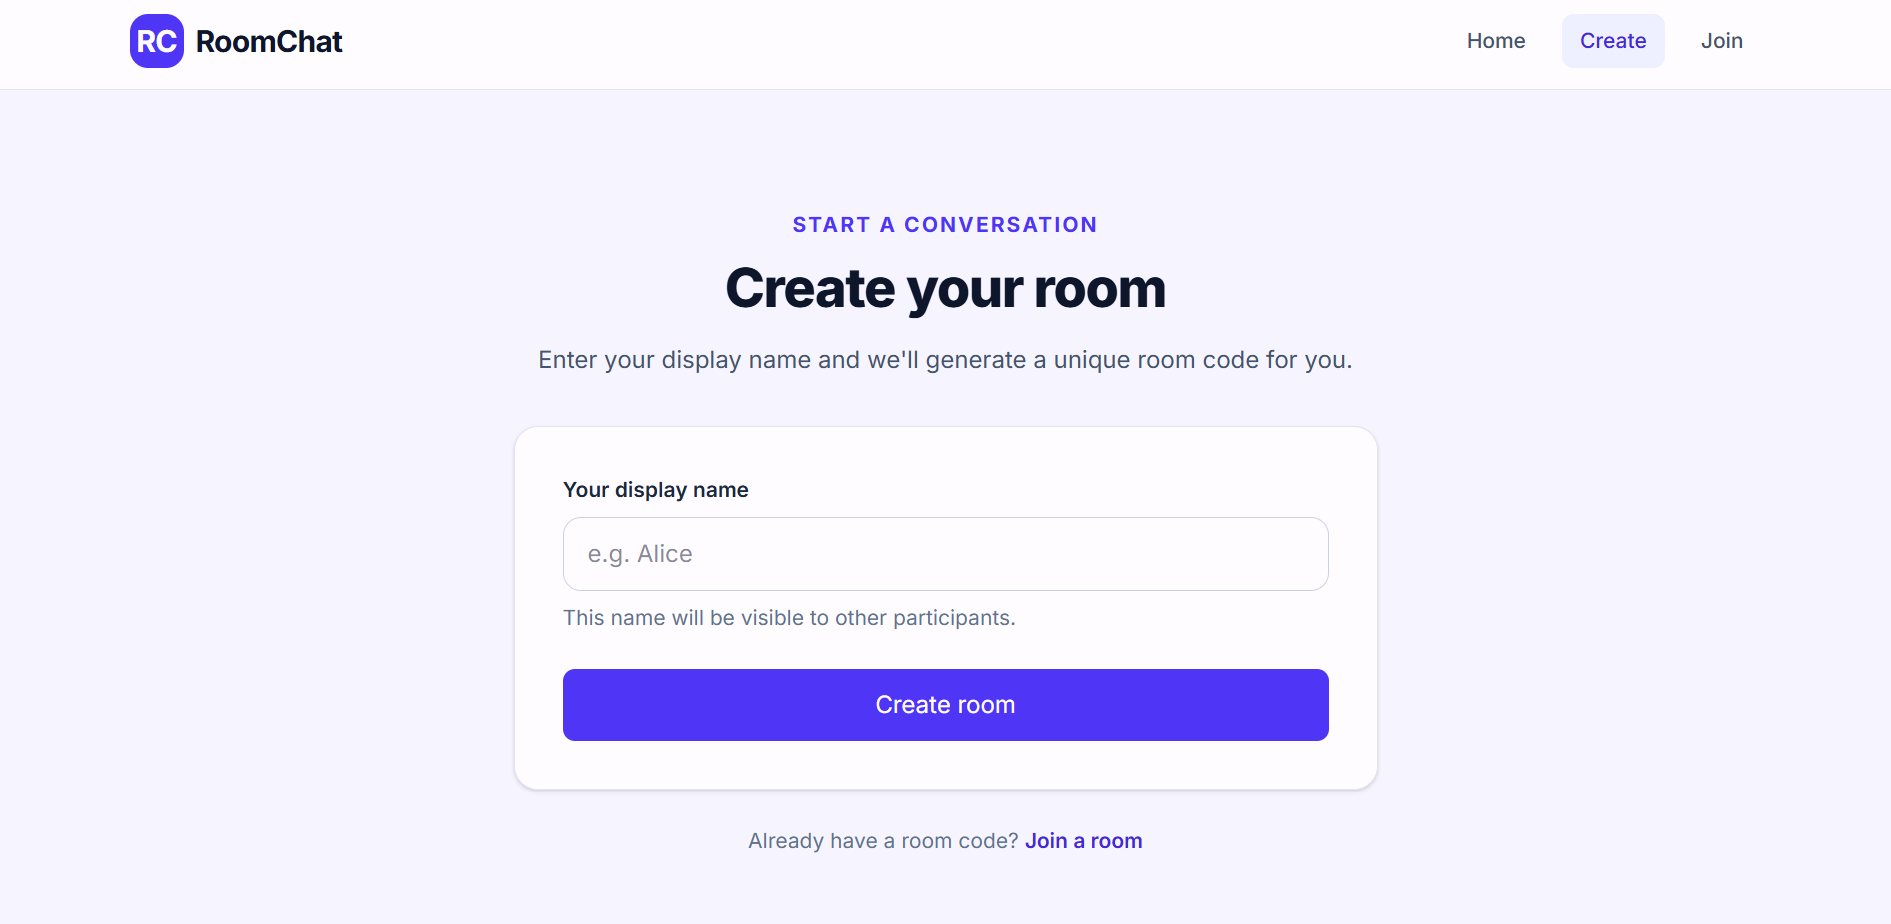
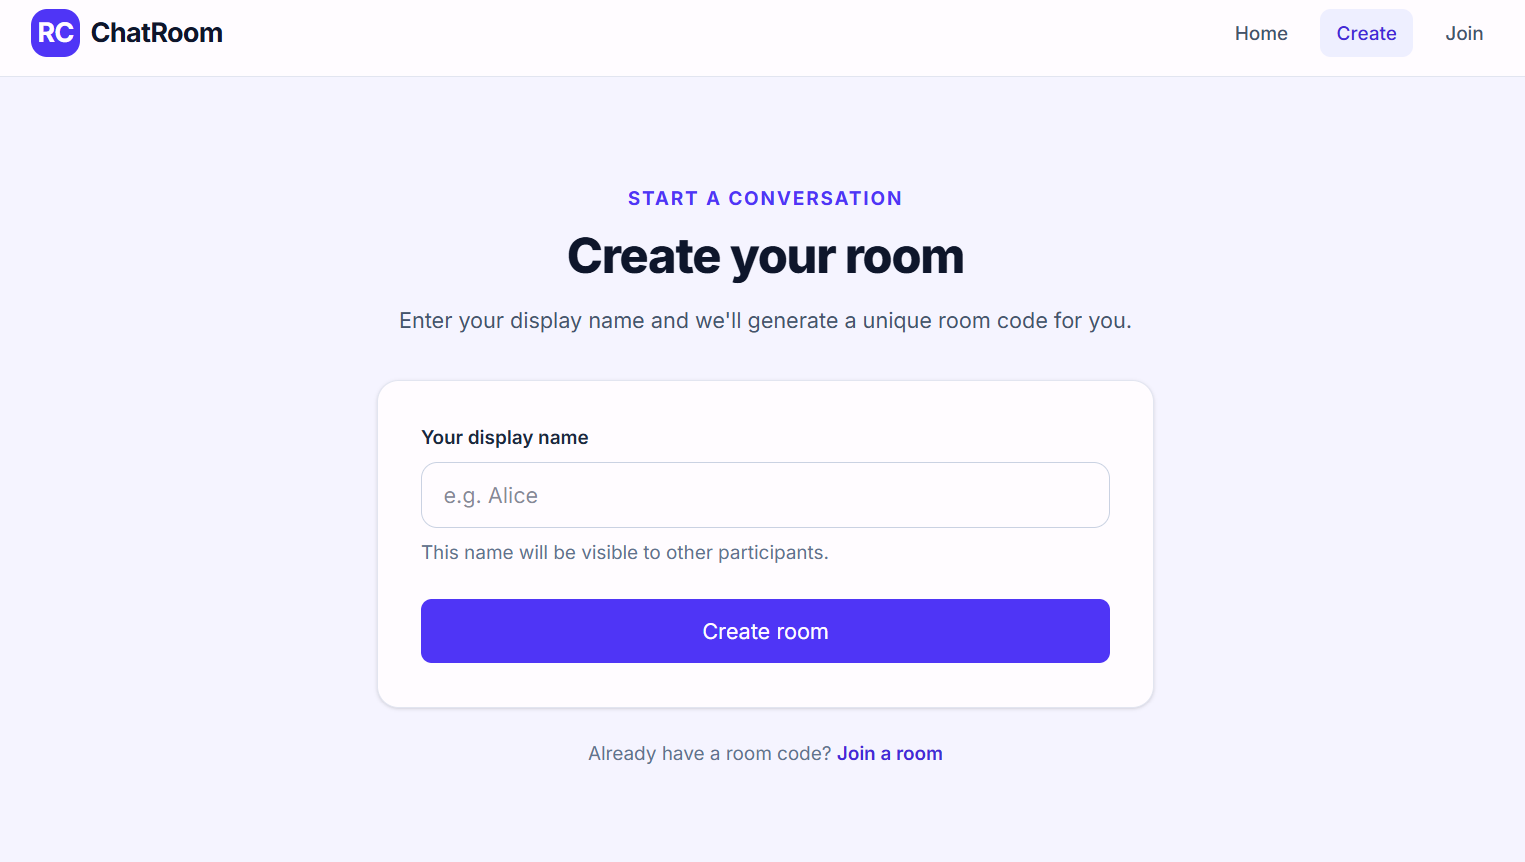
chore: update app naming and screenshots

diff --git a/ChatRoom/apps/client/src/components/layout/Header.tsx b/ChatRoom/apps/client/src/components/layout/Header.tsx
@@ -1,4 +1,3 @@
-
 import { Link, NavLink } from "react-router-dom";
 import { PageContainer } from "../ui/PageContainer";
 
@@ -16,7 +15,7 @@ export function Header() {
           <Link
             to="/"
             className="flex items-center gap-2 text-xl font-bold tracking-tight text-slate-900"
-            aria-label="RoomChat home"
+            aria-label="ChatRoom home"
           >
             <span
               aria-hidden="true"
@@ -24,7 +23,7 @@ export function Header() {
             >
               RC
             </span>
-            RoomChat
+            ChatRoom
           </Link>
 
           <nav

diff --git a/ChatRoom/apps/client/src/components/home/ChatPreview.tsx b/ChatRoom/apps/client/src/components/home/ChatPreview.tsx
@@ -30,7 +30,7 @@ export function ChatPreview() {
   return (
     <div
       role="img"
-      aria-label="Illustration of a RoomChat conversation between Alice and Bob"
+      aria-label="Illustration of a ChatRoom conversation between Alice and Bob"
       className="mx-auto w-full max-w-lg"
     >
       <div className="overflow-hidden rounded-2xl border border-slate-200 bg-white shadow-xl shadow-indigo-100/60">

diff --git a/ChatRoom/apps/client/src/components/layout/Footer.tsx b/ChatRoom/apps/client/src/components/layout/Footer.tsx
@@ -6,7 +6,7 @@ export function Footer() {
     <footer className="border-t border-slate-200 bg-white">
       <PageContainer>
         <div className="flex flex-col items-center justify-between gap-2 py-5 text-center text-sm text-slate-500 sm:flex-row">
-          <p>RoomChat</p>
+          <p>ChatRoom</p>
           <p>Simple, real-time conversations.</p>
         </div>
       </PageContainer>

diff --git a/ChatRoom/apps/client/src/components/chat/ChatHeader.tsx b/ChatRoom/apps/client/src/components/chat/ChatHeader.tsx
@@ -17,7 +17,7 @@ export function ChatHeader({
       <div className="flex flex-wrap items-center justify-between gap-4">
         <div>
           <p className="text-xs font-semibold uppercase tracking-widest text-slate-500">
-            RoomChat
+            ChatRoom
           </p>
 
           <h1 className="mt-1 text-xl font-bold text-slate-900 sm:text-2xl">

diff --git a/ChatRoom/apps/client/src/components/home/FeaturesSection.tsx b/ChatRoom/apps/client/src/components/home/FeaturesSection.tsx
@@ -37,7 +37,7 @@ export function FeaturesSection() {
       <PageContainer>
         <div className="mx-auto max-w-2xl text-center">
           <p className="text-sm font-bold uppercase tracking-widest text-indigo-600">
-            Why RoomChat?
+            Why ChatRoom?
           </p>
 
           <h2

diff --git a/ChatRoom/docs/architecture.md b/ChatRoom/docs/architecture.md
@@ -24,7 +24,7 @@ flowchart TD
 
 ## Backend Architecture
 
-RoomChat follows a layered architecture to separate networking, business logic, and data storage.
+ChatRoom follows a layered architecture to separate networking, business logic, and data storage.
 
 ### Socket Handlers
 
@@ -109,7 +109,7 @@ stateDiagram-v2
 
 ## Technical Decisions and Trade-offs
 
-RoomChat was designed as a lightweight, real-time chat application with an emphasis on maintainability, type safety, security, and testability.
+ChatRoom was designed as a lightweight, real-time chat application with an emphasis on maintainability, type safety, security, and testability.
 
 The following decisions shaped its architecture.
 
@@ -172,7 +172,7 @@ Zod was selected to provide consistent and maintainable validation rules.
 
 ### 4. npm Workspaces for Monorepo Management
 
-**Decision:** Organize RoomChat as an npm-workspaces monorepo.
+**Decision:** Organize ChatRoom as an npm-workspaces monorepo.
 
 ```text
 ChatRoom/
@@ -419,7 +419,7 @@ The current implementation intentionally prioritizes simplicity and temporary co
 
 ## Future Architecture
 
-If RoomChat needs to support more users and persistent conversations, the architecture could evolve toward:
+If ChatRoom needs to support more users and persistent conversations, the architecture could evolve toward:
 
 ```text
 React Frontend
@@ -441,7 +441,7 @@ This would require changes to session recovery, distributed rate limiting, room 
 
 ## Conclusion
 
-RoomChat demonstrates the use of a layered, type-safe architecture for building real-time applications.
+ChatRoom demonstrates the use of a layered, type-safe architecture for building real-time applications.
 
 The key engineering priorities were:
 

diff --git a/ChatRoom/docs/socket-events.md b/ChatRoom/docs/socket-events.md
@@ -1,6 +1,6 @@
-# RoomChat — Socket.IO Event Reference
+# ChatRoom — Socket.IO Event Reference
 
-This document describes the real-time events exchanged between the RoomChat React client and the Express/Socket.IO server.
+This document describes the real-time events exchanged between the ChatRoom React client and the Express/Socket.IO server.
 
 > **Source of truth:** `packages/shared/src/socket-events.ts`, `packages/shared/src/room.ts`, `packages/shared/src/errors.ts`, and `packages/shared/src/schemas.ts`. Review these files when changing event names, payload fields, or response types. The examples below are illustrative, not a substitute for the shared TypeScript contracts.
 
@@ -118,7 +118,7 @@ Use the error code for client-side decisions and the user-facing message for dis
 ```mermaid
 sequenceDiagram
     participant A as Alice (creator)
-    participant S as RoomChat server
+    participant S as ChatRoom server
     participant B as Bob (member)
 
     A->>S: room:create (display name)
@@ -137,7 +137,7 @@ sequenceDiagram
 ```mermaid
 sequenceDiagram
     participant A as Alice
-    participant S as RoomChat server
+    participant S as ChatRoom server
     participant B as Bob
 
     A->>S: chat:send (validated message payload)
@@ -154,7 +154,7 @@ Whether the sender also receives the broadcast depends on the current server imp
 ```mermaid
 sequenceDiagram
     participant A as Creator
-    participant S as RoomChat server
+    participant S as ChatRoom server
     participant B as Member
 
     A->>S: room:lock

diff --git a/ChatRoom/docs/deployment.md b/ChatRoom/docs/deployment.md
@@ -1,8 +1,8 @@
-# RoomChat Deployment Guide
+# ChatRoom Deployment Guide
 
 ## Architecture
 
-RoomChat uses separate frontend and backend hosting.
+ChatRoom uses separate frontend and backend hosting.
 
 - **Frontend:** Vercel
 - **Backend:** Render
@@ -13,7 +13,7 @@ RoomChat uses separate frontend and backend hosting.
 
 Configure a Node.js web service.
 
-**Root directory:** `ChatRoom` if the repository contains RoomChat in that subdirectory; otherwise use the repository root.
+**Root directory:** `ChatRoom` if the repository contains ChatRoom in that subdirectory; otherwise use the repository root.
 
 **Build command:**
 
@@ -61,7 +61,7 @@ Configure:
 
 **Framework:** Vite
 
-**Root directory:** `ChatRoom` if RoomChat is nested in a larger repository; otherwise use the repository root.
+**Root directory:** `ChatRoom` if ChatRoom is nested in a larger repository; otherwise use the repository root.
 
 **Install command:**
 
@@ -116,7 +116,7 @@ Add `vercel.json` to the Vercel project root:
 
 ## Known Hosting Limitations
 
-RoomChat uses in-memory storage and is intended to run on one backend instance.
+ChatRoom uses in-memory storage and is intended to run on one backend instance.
 
 Restarting the backend removes active rooms.
 

diff --git a/ChatRoom/docs/security.md b/ChatRoom/docs/security.md
@@ -1,8 +1,8 @@
-# RoomChat Security
+# ChatRoom Security
 
 ## Overview
 
-RoomChat is a temporary, room-based chat application.
+ChatRoom is a temporary, room-based chat application.
 
 It does not require permanent user accounts.
 
@@ -10,7 +10,7 @@ Security is enforced primarily through server-side validation, socket-session au
 
 ## Input Validation
 
-RoomChat uses shared Zod schemas to validate incoming requests.
+ChatRoom uses shared Zod schemas to validate incoming requests.
 
 Examples include:
 
@@ -31,7 +31,7 @@ Client-provided role information is not sufficient to grant creator privileges.
 
 ## Rate Limiting
 
-RoomChat limits selected room and chat operations to reduce abuse and excessive resource consumption.
+ChatRoom limits selected room and chat operations to reduce abuse and excessive resource consumption.
 
 Rate limiting is enforced on the backend.
 
